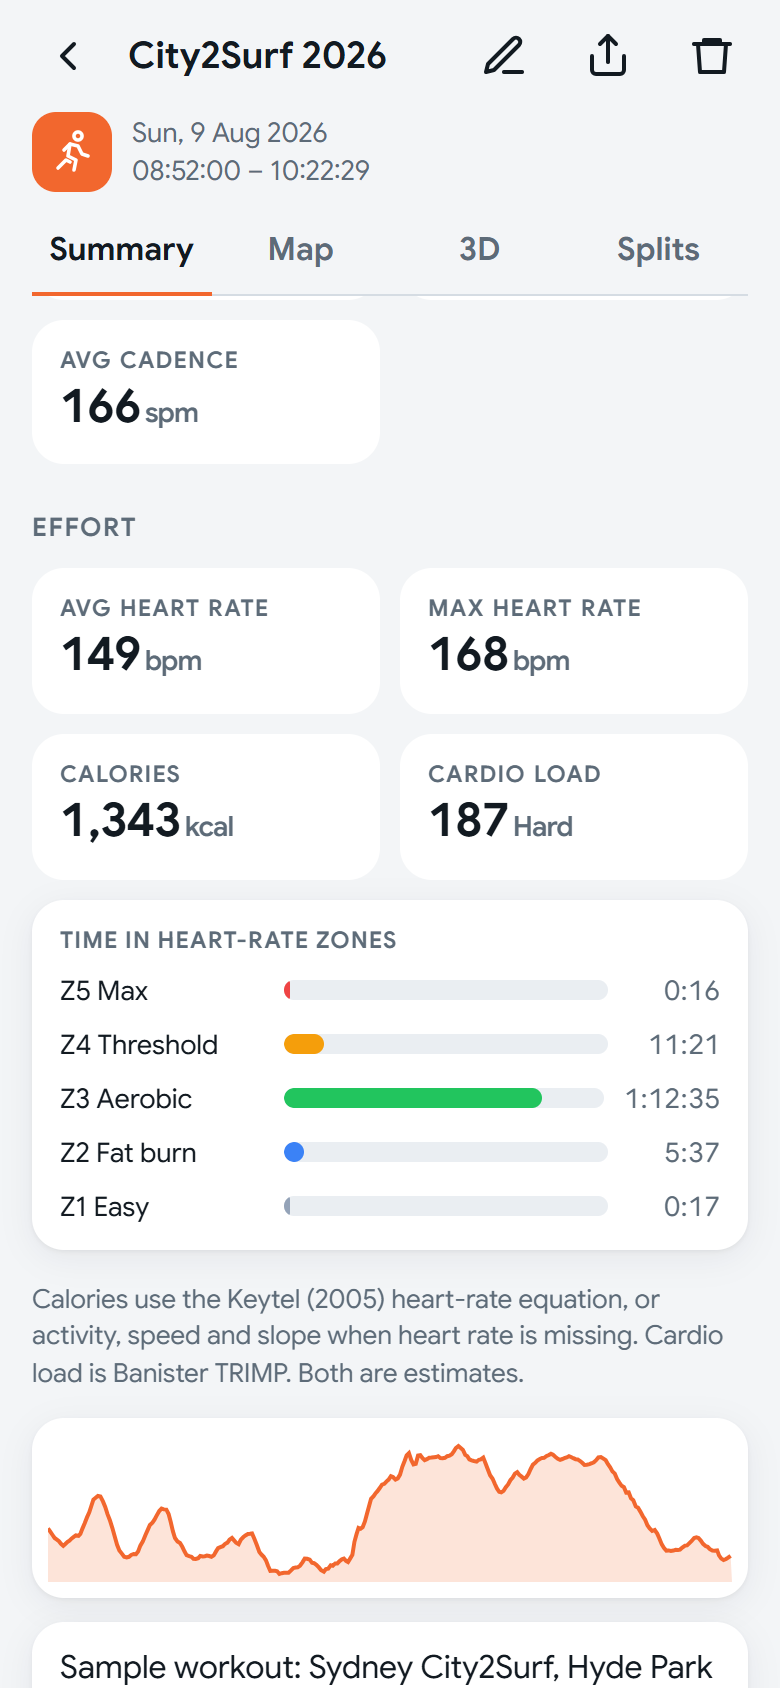
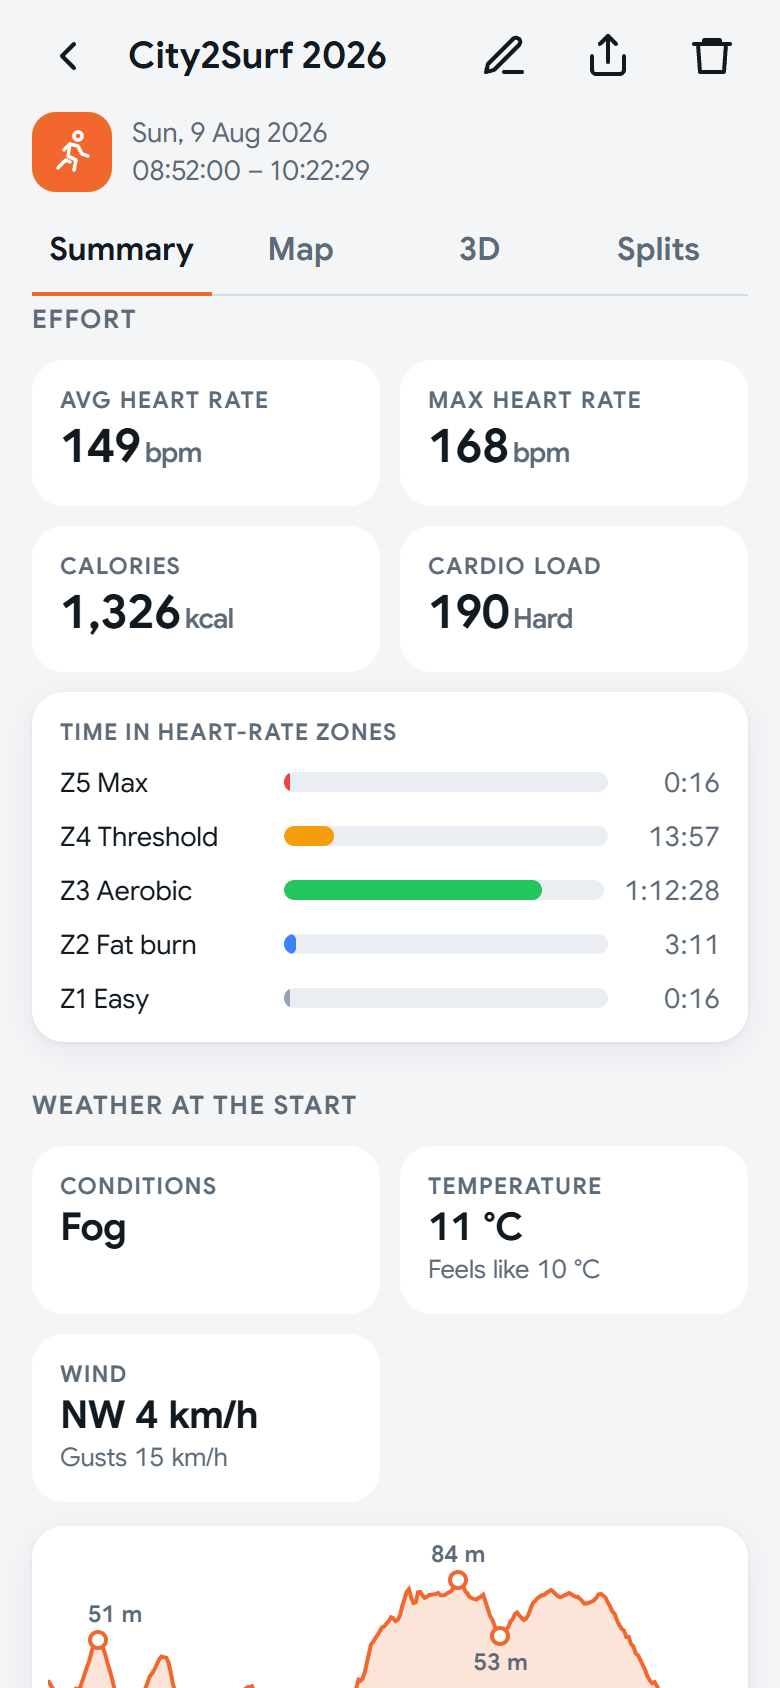
README: weather and elevation-label screenshots, refreshed summary and effort

diff --git a/README.md b/README.md
@@ -30,20 +30,22 @@ sensors.
   <img src="docs/screenshots/summary.png" width="250" alt="Workout summary with distance and the average GPS error, times, speed, pace, climb and altitude">
 </p>
 <p align="center">
-  <img src="docs/screenshots/effort.png" width="250" alt="Workout summary: average step cadence from the watch, then Effort: average and max heart rate, calories, cardio load and time in heart-rate zones">
+  <img src="docs/screenshots/effort.png" width="250" alt="Workout summary, Effort: average and max heart rate, calories, cardio load and time in heart-rate zones, then the weather at the start">
+  &nbsp;
+  <img src="docs/screenshots/weather.png" width="250" alt="Workout summary: weather at the start (fog, 11 °C feeling like 10 °C, wind NW 4 km/h gusting 15), the elevation chart with its highs and lows labelled, and notes on how calories and the weather are worked out">
   &nbsp;
   <img src="docs/screenshots/map.jpeg" width="250" alt="Map view with speed-coloured route, distance marker popover, and elevation profile with heart-rate line">
-  &nbsp;
-  <img src="docs/screenshots/3d.jpeg" width="250" alt="3D route over satellite imagery with exaggerated altitude">
 </p>
 <p align="center">
+  <img src="docs/screenshots/3d.jpeg" width="250" alt="3D route over satellite imagery with exaggerated altitude">
+  &nbsp;
   <img src="docs/screenshots/splits.png" width="250" alt="Per-kilometre splits with pace, elevation change, heart rate and time">
   &nbsp;
   <img src="docs/screenshots/share.png" width="250" alt="Share sheet: text summary with Text message and Other apps buttons, and file export formats">
-  &nbsp;
-  <img src="docs/screenshots/live-position.png" width="250" alt="Live position screen: coordinates, barometric altitude, speed, compass heading and a map, with nothing recorded">
 </p>
 <p align="center">
+  <img src="docs/screenshots/live-position.png" width="250" alt="Live position screen: coordinates, barometric altitude, speed, compass heading and a map, with nothing recorded">
+  &nbsp;
   <img src="docs/screenshots/voice-settings.png" width="250" alt="Voice announcement settings: Splits, Time and Goal per activity, time interval, lower or pause other audio, always loud, and watch vibration">
   &nbsp;
   <img src="docs/screenshots/voice-live.png" width="250" alt="Live workout screen showing the last spoken announcement as a caption under the controls">
@@ -214,6 +216,9 @@ are from a Pixel Watch 3; the workout screen uses the debug build's demo mode.</
   - climb, descent and net vertical
   - min and max altitude
 - **Ski extras:** runs, lifts, ski vertical, lift time and max run speed.
+- **Elevation chart** on the summary, with the significant highs and lows labelled with
+  their altitude: the highest and lowest points always, plus hills and dips that stand out
+  by at least 5 m or a fifth of the route's height range, whichever is more.
 - **Weather at the start:** conditions (clear, cloudy, fog, drizzle, rain, showers, snow,
   thunderstorm, or **windy** when the wind is 30 km/h or more or gusts reach 50 km/h),
   temperature and feels-like temperature, and wind direction, speed and gusts. Looked up
